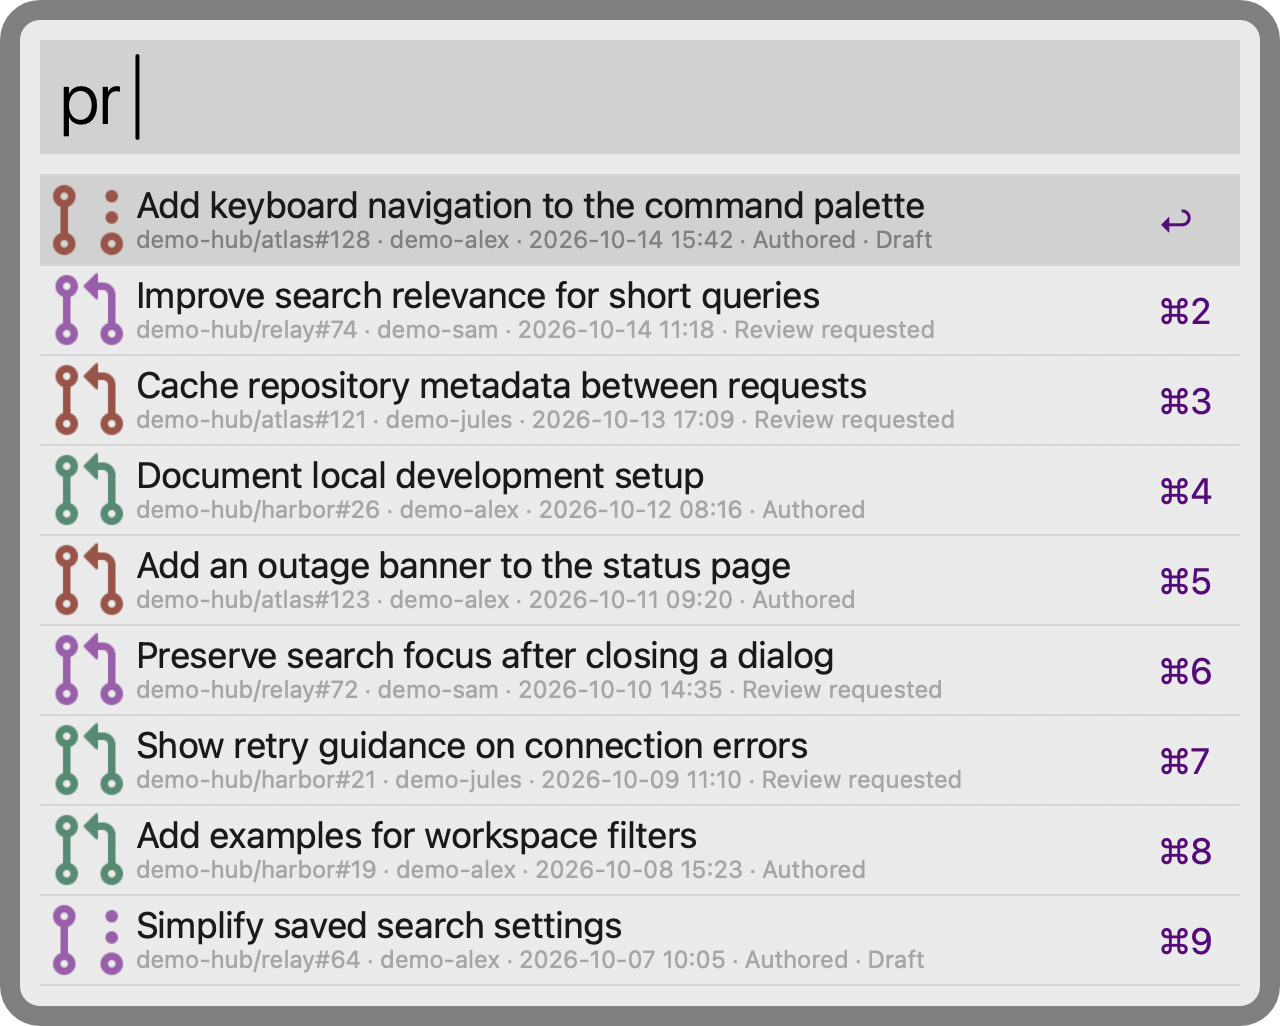
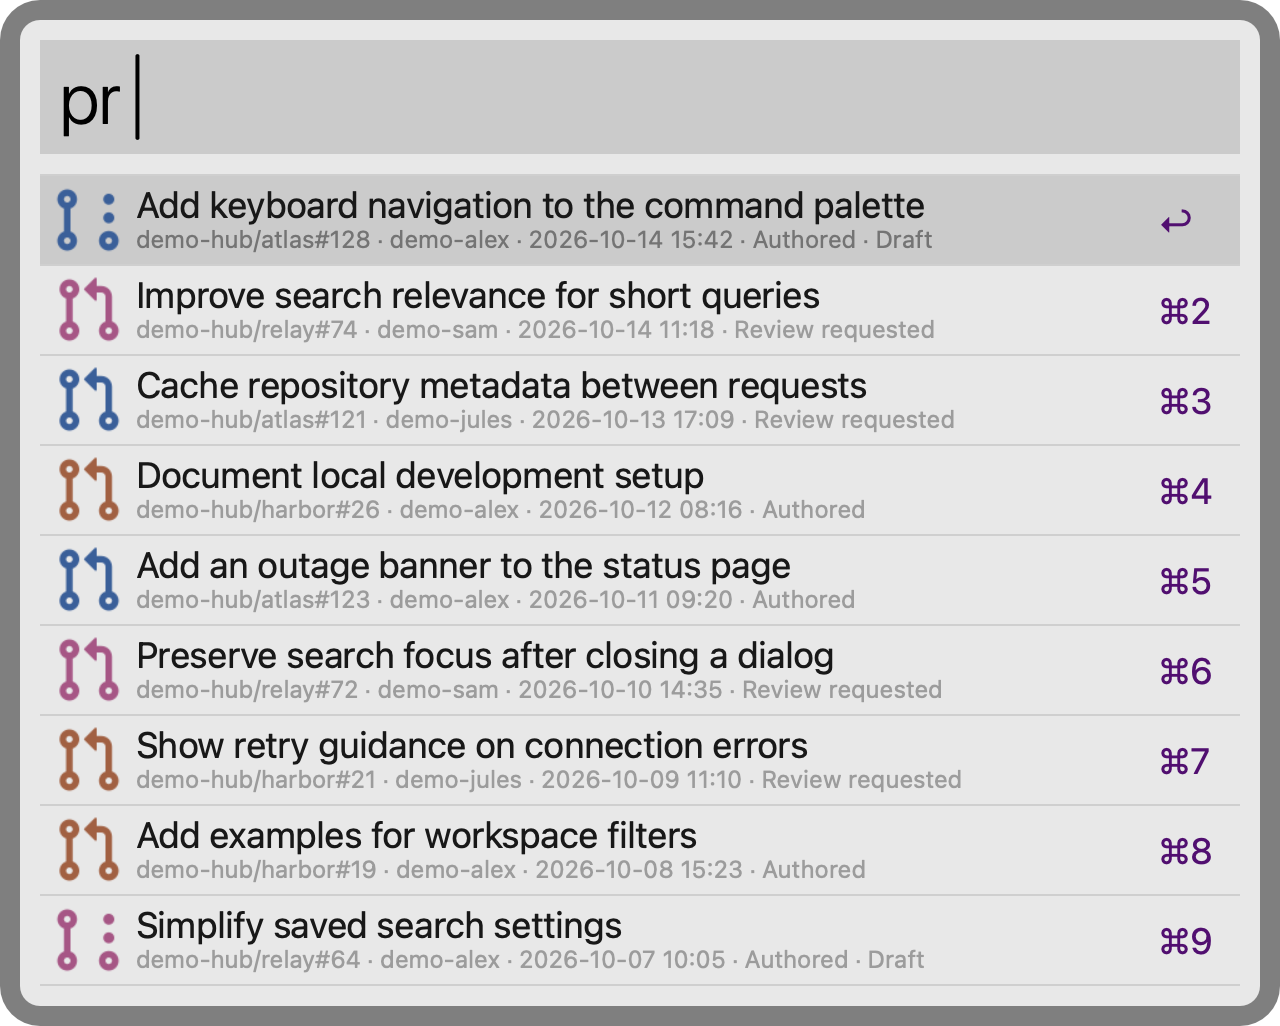
Update hubfred branding, pickers, and screenshot workflow
- Rename the Alfred bundle and release artifact, and document migration from the old bundle ID.
- Cap quick pickers at ten recent items and use smaller icons with the approved repository palette.
- Automate screenshot capture, restore Alfred settings, and quit Alfred on exit. Refresh the README screenshots.

Changed region(s): [[0.0312, 0.1871, 0.0938, 0.9669]]

diff --git a/MAINTAINER.md b/MAINTAINER.md
@@ -7,33 +7,33 @@ Build from the repository root using Node.js 24, npm, and `zip`. Run `npm ci` on
 ```bash
 npm ci --ignore-scripts
 npm run package
-open dist/Hubfred.alfredworkflow
+open dist/hubfred.alfredworkflow
 ```
 
 `npm run package` reads files under `workflow/` from the working tree for files tracked in the Git index, so it includes uncommitted changes to existing files. Newly added files must be tracked by Git first. Marked's JavaScript and license are bundled only in the package, from the locked npm distribution.
 
 ## README Screenshots
 
-Use Alfred 6 and Swift (Xcode Command Line Tools) on macOS. Grant Terminal permission to record the screen and control Alfred. Set macOS to Light Mode and Alfred's theme to **Alfred Classic** while capturing. The README images were captured at Retina (2×) resolution.
+Use Alfred 6 and Swift (Xcode Command Line Tools) on macOS. Grant Terminal permission to record the screen and control Alfred. Set macOS to Light Mode; the capture command selects **Alfred Classic** temporarily and reports if macOS is in Dark Mode. It does not change macOS appearance. The README images were captured at Retina (2×) resolution.
 
 ```bash
 npm ci --ignore-scripts
 npm run screenshots -- --prepare
-open dist/Hubfred-Screenshots.alfredworkflow
+open dist/hubfred-screenshots.alfredworkflow
 npm run screenshots
 ```
 
-Run `--prepare` and import the workflow only once. On subsequent runs, `npm run screenshots` updates the screenshot-only workflow and writes four PNGs to `docs/screenshots/`: simplified PR/Issue lists and dashboards. Any PR that changes the workflow's appearance must rerun `npm run screenshots` and include the regenerated screenshots. If Alfred settings are synced, set `HUBFRED_ALFRED_WORKFLOWS` to the synced `Alfred.alfredpreferences/workflows` directory.
+Run `--prepare` and import the workflow only once. `--prepare` only builds the archive; it does not change Alfred settings or quit Alfred. On subsequent runs, `npm run screenshots` updates the screenshot-only workflow and writes four PNGs to `docs/screenshots/`: simplified PR/Issue lists and dashboards. Any PR that changes the workflow's appearance must rerun `npm run screenshots` and include the regenerated screenshots. If Alfred settings are synced, set `HUBFRED_ALFRED_WORKFLOWS` to the synced `Alfred.alfredpreferences/workflows` directory. The command does not migrate or remove older workflows or artifacts. Disable any older production workflow with Bundle ID `jp.kasutera.github-prs` during normal use to prevent duplicate `pr` and `is` keywords.
 
 Captures use synthetic data from `scripts/screenshots/fixtures.json` and a fixed UTC timestamp. The screenshot workflow uses a Bundle ID and cache separate from production and does not connect to GitHub CLI. Verify that the target window shows synthetic data, then save PNGs without shadows and with transparent corners outside the rounded window. Pixel-level results may vary by theme and OS. The screenshot workflow and data are excluded from release packages.
 
-During capture, the production `pr` and `is` keywords are temporarily backed up, and the screenshot workflow responds to those keywords. They are restored on normal completion, failure, or ordinary interruption. If restoration fails, the command prints the backup location. Do not edit Alfred settings during capture.
+During capture, installed production workflows under the current or legacy Bundle IDs have their `pr` and `is` keywords temporarily backed up and disabled, and the screenshot workflow responds to those keywords. They are restored on normal completion, failure, or ordinary interruption. Alfred is then quit and its original theme preference is restored from the `preferences/local/*/appearance/prefs.plist` files; Alfred remains closed. If Alfred cannot quit or any restoration fails, the command prints the recovery-file location. Do not edit Alfred settings during capture.
 
 ## Runtime Behavior
 
 - `pr` and `is` use Alfred's cache. Reopening them more than 30 seconds after the previous fetch triggers a background refresh. To clear the cache after switching GitHub CLI accounts, run `reload` in Alfred.
 - `prs` and `iss` store the list and body separately on disk. For up to 30 seconds, they do not fetch again; from 30 seconds to under 10 minutes, they show the previous list while refreshing in the background. A failed refresh leaves the old list intact. On the first load, after 10 minutes, or after authentication settings change, they wait for GitHub's response. Ten minutes is the display freshness window, not a deletion deadline.
-- Searches run in parallel for each participation category, and results are sorted by update time. GitHub Search is limited to 1,000 results per search query. Icons use [Octicons v19.19.0](https://github.com/primer/octicons/tree/v19.19.0/icons), tinted in 12 colors. Update times are shown in the Mac's local time.
+- Searches run in parallel for each participation category, and results are sorted by update time. GitHub Search is limited to 1,000 results per search query. Icons use [Octicons v19.19.0](https://github.com/primer/octicons/tree/v19.19.0/icons); PR readiness and Draft remain distinct Octicon shapes. Each glyph is scaled to 87.5% within its 64px PNG canvas. Six muted, distinct-hue colors identify repositories only; green is intentionally excluded to avoid GitHub state colors. Update times are shown in the Mac's local time.
 - The bundled [Marked](https://github.com/markedjs/marked) converts GFM to HTML for display in WebKit. Raw HTML and images are not rendered; images can be opened as links. If the conversion process times out after 2 seconds, the item can still be opened on GitHub.
 
 ## CI and Releases

diff --git a/README.md b/README.md
@@ -1,10 +1,12 @@
-# Hubfred
+# hubfred
 
 Find and open the GitHub pull requests and issues that involve you, right from Alfred.
 
 ## Install
 
-[Download Hubfred.alfredworkflow](../../releases/latest/download/Hubfred.alfredworkflow) and open it in Alfred. Requires Alfred 6 with Powerpack and [GitHub CLI](https://cli.github.com/) signed in to github.com.
+[Download the latest release](../../releases/latest) and open the `.alfredworkflow` file in Alfred. Requires Alfred 6 with Powerpack and [GitHub CLI](https://cli.github.com/) signed in to github.com.
+
+If upgrading, disable the previously installed workflow before importing this version. Its new bundle ID may make Alfred install it separately; the previous workflow is not automatically removed or migrated.
 
 ## Pull Requests
 
@@ -26,6 +28,7 @@ Find and open the GitHub pull requests and issues that involve you, right from A
 
 ![The Issue dashboard showing a labeled list and a Markdown description with a checklist.](docs/screenshots/dashboard.png)
 
+The `pr` and `is` pickers show up to 10 items, most recently updated first; typing a search filters that list. The `prs` and `iss` dashboards are not capped.
 Search by title, repository, or number. Press Enter to open the selected item on GitHub.
 
 See [MAINTAINER.md](MAINTAINER.md) for development, screenshots, and releases.
